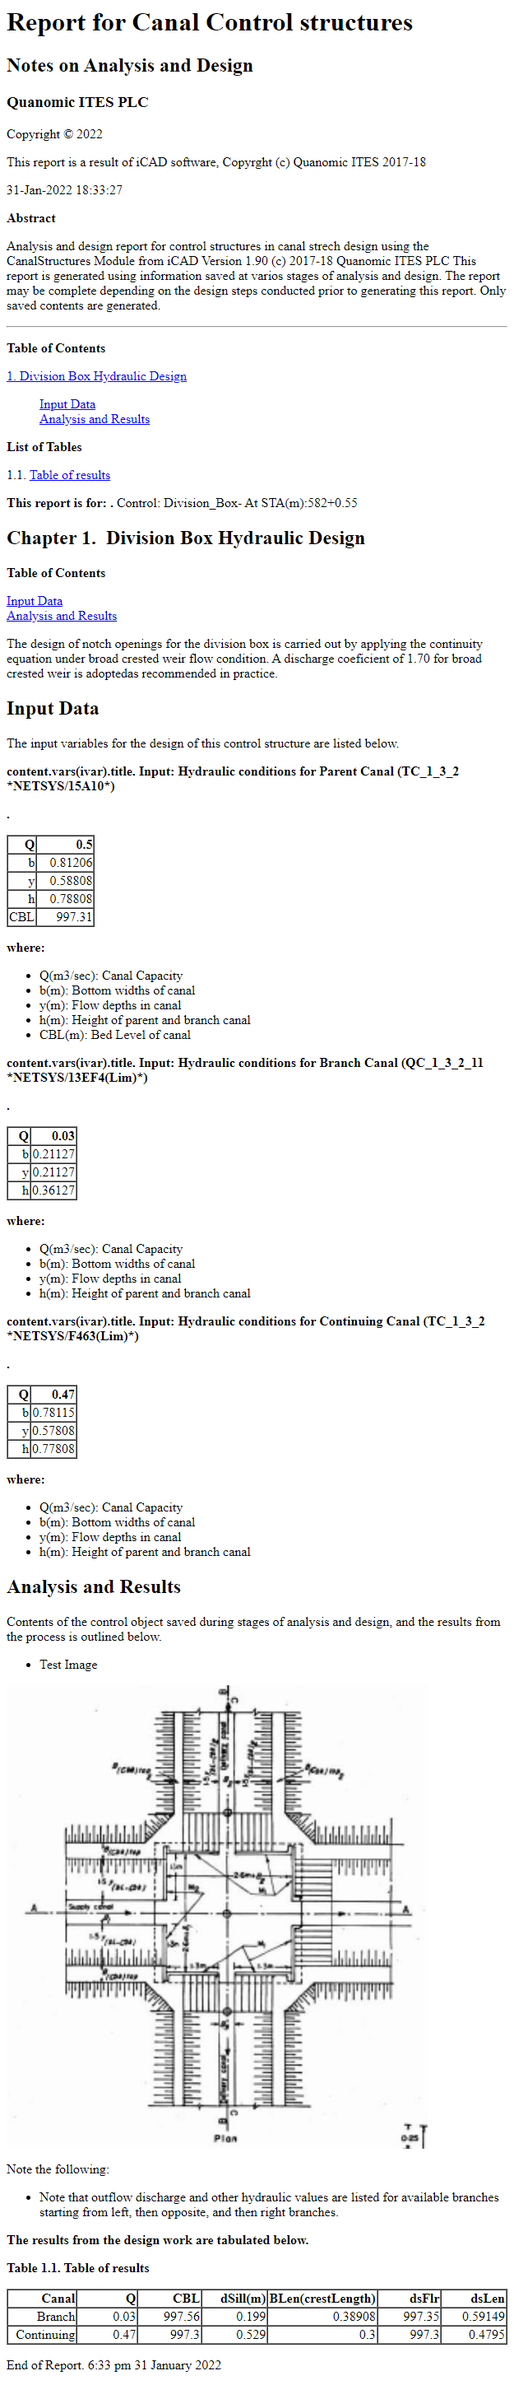
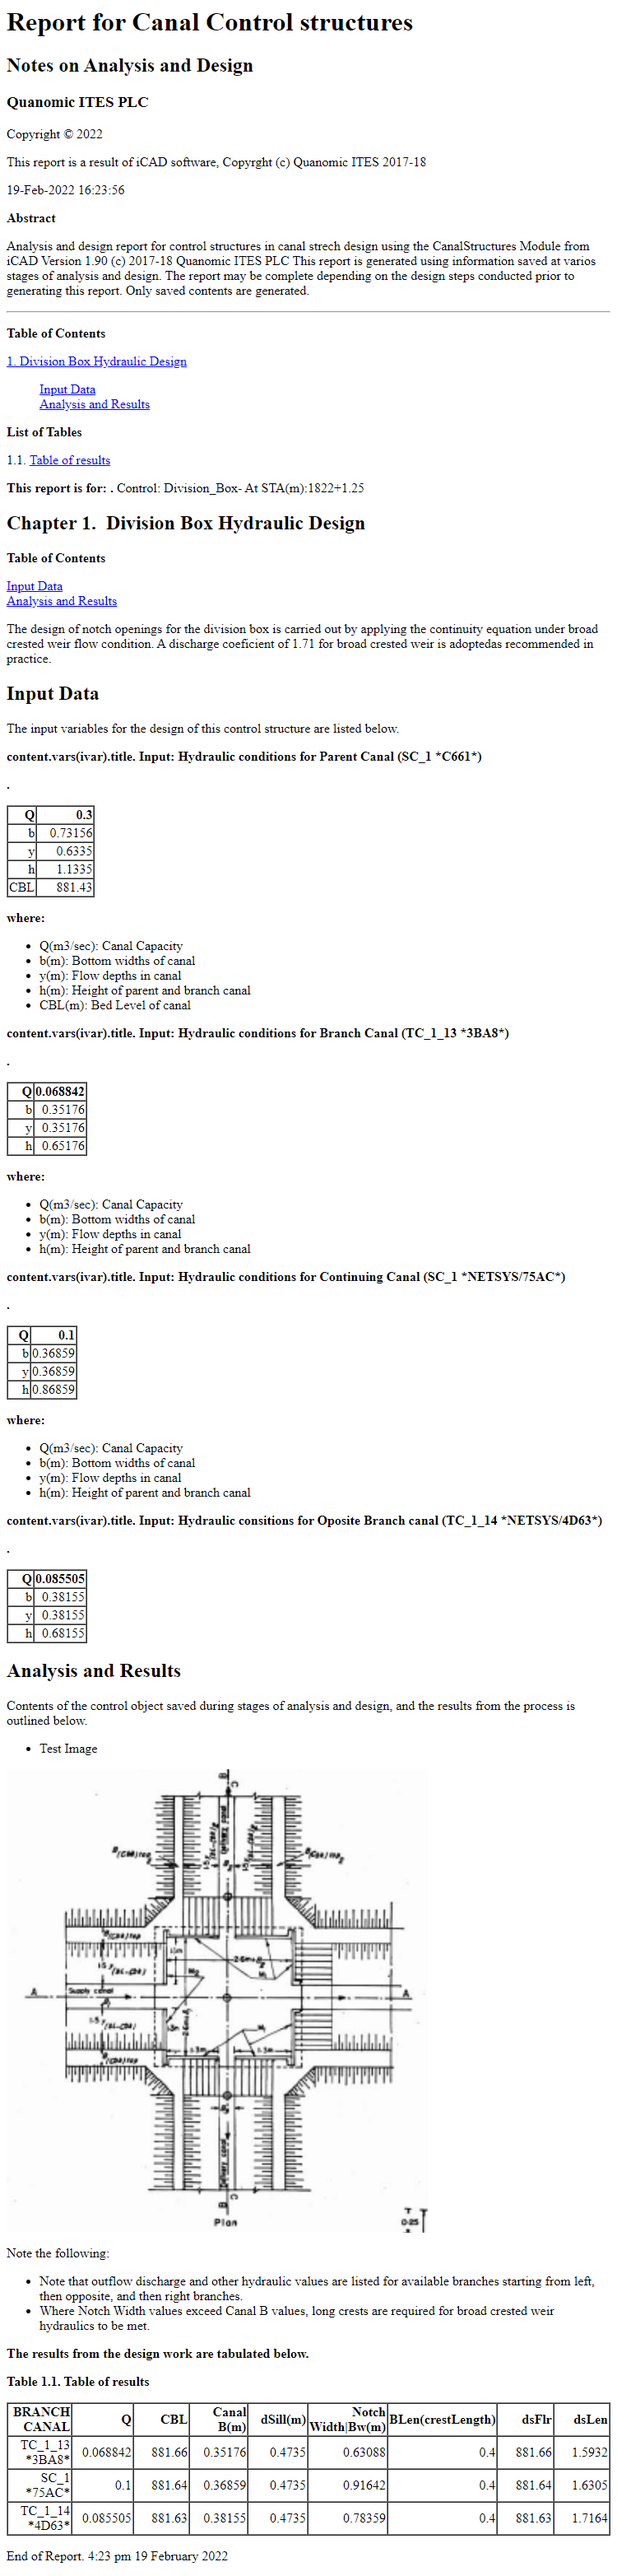
Divbox guide updated

Changed region(s): [[0.0, 0.0, 1.0, 0.9941], [0.6688, 0.3107, 0.76, 0.3417], [0.6992, 0.0, 0.7296, 0.0311]]

diff --git a/DivisionBoxDesign/DivisionBoxDesign.md b/DivisionBoxDesign/DivisionBoxDesign.md
@@ -24,43 +24,61 @@ Where:
 
 - H is the head of flow overt the crest
 
-- B is the overflow length
+- B is the overflow length,  or the width of the Notch.
 
-The soution to this equaiton is determined based on the Modular Limit criteria. This means that, the flow over the weir is independent of variations in tail water level. For this to occur, the tail water energy level must not rise above a certain percentage of the upstream energy head over the weir crest.
+The soution to this equaiton is determined based on the Modular Limit criteria. This means that, the flow over the weir is independent of variations in tail water level. For this to occur, the tail water energy level must not rise above a certain percentage of the upstream energy head over the weir crest. A limiting value of z= 1/3H is used.
 
-The steps implemented in the solving algorithm are:
+The steps implemented are summarized as below:
 
-1. Assume a headloss value, z
-
-2. Determine H1, the the upstream energy head over the weir crest
+1. Detemine the available overflow head, H, from either upstream flow depth y, or 0.5Thk (Thk=0.40 is used). This will ensure that the assumed broad crested weir flow condition occurs.
    
-   Determine H2, the taile water energy level
+   This will fix the overflow crest level to each branch canal.
+
+2. Compute the required overflow length from
    
-   Determine B, the required overflow wisth from the Broad crested weir equation.
+   w= Q/1.71/H^1.5
    
-   B= Q/1.7/H1^(1/5)
-
-3. If z>=H1/3 and H2/H1<0.66, modularity condition is satisfied
+   Then determine individual lengths of overflow notch for each branch canal from the proportional flow equation:
    
-   Else, repeat from step 1.
+   wi= w*qi/Q
 
-If the modularity condition can not be met after adequate number of iterations, the algorithm aborts and:
+3. From a known headloss amount of z (above), determine the pre-jump and post-jump depths for the flow condition after the crest and in to the downstream basin of each branch canal. Blenchs curve method is used. This is used to determine:
+   
+   Lbasin= 5*(Y2-y1), length of the stilling basin required behind the crest
+   
+   hSill= y-y2, but not less than 0, height of stilling pool end sill
 
-![[  ]](Images/Image%20002.png) 
+4. Finally the CBL levels for each branch canal are fixed based on z, hSill and FSL values.
 
-*Error message reporting failure to succesfully solve for modularity condition.*
+The algorithm will not accept parent canal capacities exceeding 80litres per second, or the throws the following error message:
+
+
+
+![gfh](Images/Image%20013.png)
+
+*Error message for parent canal capcity Q=0.939m3/sec*
+
+
+
+There are certain conditions that a node must fulfil to be hydraulically solved. Incoming and outgoing discharges must be comparable. Specifically
+
+* No branch canal can have larger capacity than the incoming (parent) canal
+
+* The sum of outgoing discharges can not be above 5lpsec beyond the parent canal capacity
+
+* Difference between parent canal discharge and sum of all outgoing discharges can not be more than 20% of the parent canal capacity.
+
+Conditions not meeting the above criteria are likely impractical, and hence not solved. In such cases:
 
 a. An error message, such as below, is reported
 
 b. The check mark assignment is reversed, and the junction is retained as a turnout structure.
 
-An error message can also arise if the incoming and outgoing discharge to the division box do not match.
-
 ![[ ]](Images/Image%20007.png) 
 
 *Error message for unbalaned discharge condition.*
 
-Upon succesful solution to the above iterative process, the algorith assigns dimensions to the corresponding banching canal as  follows:
+Upon succesful solution to the above iterative process, the algorith assigns dimensions to the corresponding branching canal as  follows:
 
 * Overflow Width, B= max (0.3, H1, Lc/5), where Lc= 2*H1
 
@@ -76,7 +94,15 @@ The actual dimension tables and designed invert levels for the parent and branch
 
 ![[dsfs]](Images/Image%20006.png)
 
-*Typical report generated for the design of a division box.*
+*Typical table report generated for the design of a division box.*
+
+Note: The above results are for a two way divison box, where a parent canal feeds water to a branch canal, and a continuing canal. Where merged nodes exist, the division box is a three way structure. In such cases, an other line of results is generated indicating dimensions for outlet to the remaining branch canal.
+
+![fsf](Images/Image%20011.png)
+
+![fsd](Images/Image%20012.png)
+
+*Figure showing two line output of report table, for a three way division box. Note, only  dimensions pertinent to the third outlet are indicated in the second line. Notice also  the label for each row of result.*
 
 ## Generating Design Report
 
@@ -108,8 +134,4 @@ A sample BoQ for a division box looks similar to below output.
 
 END.
 
-
-
 Regerences: A guideline for Design of Division Box Structures, Feb 2015, IDFP Design Team, Water Works Design and SUpervision Enterprise, Addis Ababa.
-
-
